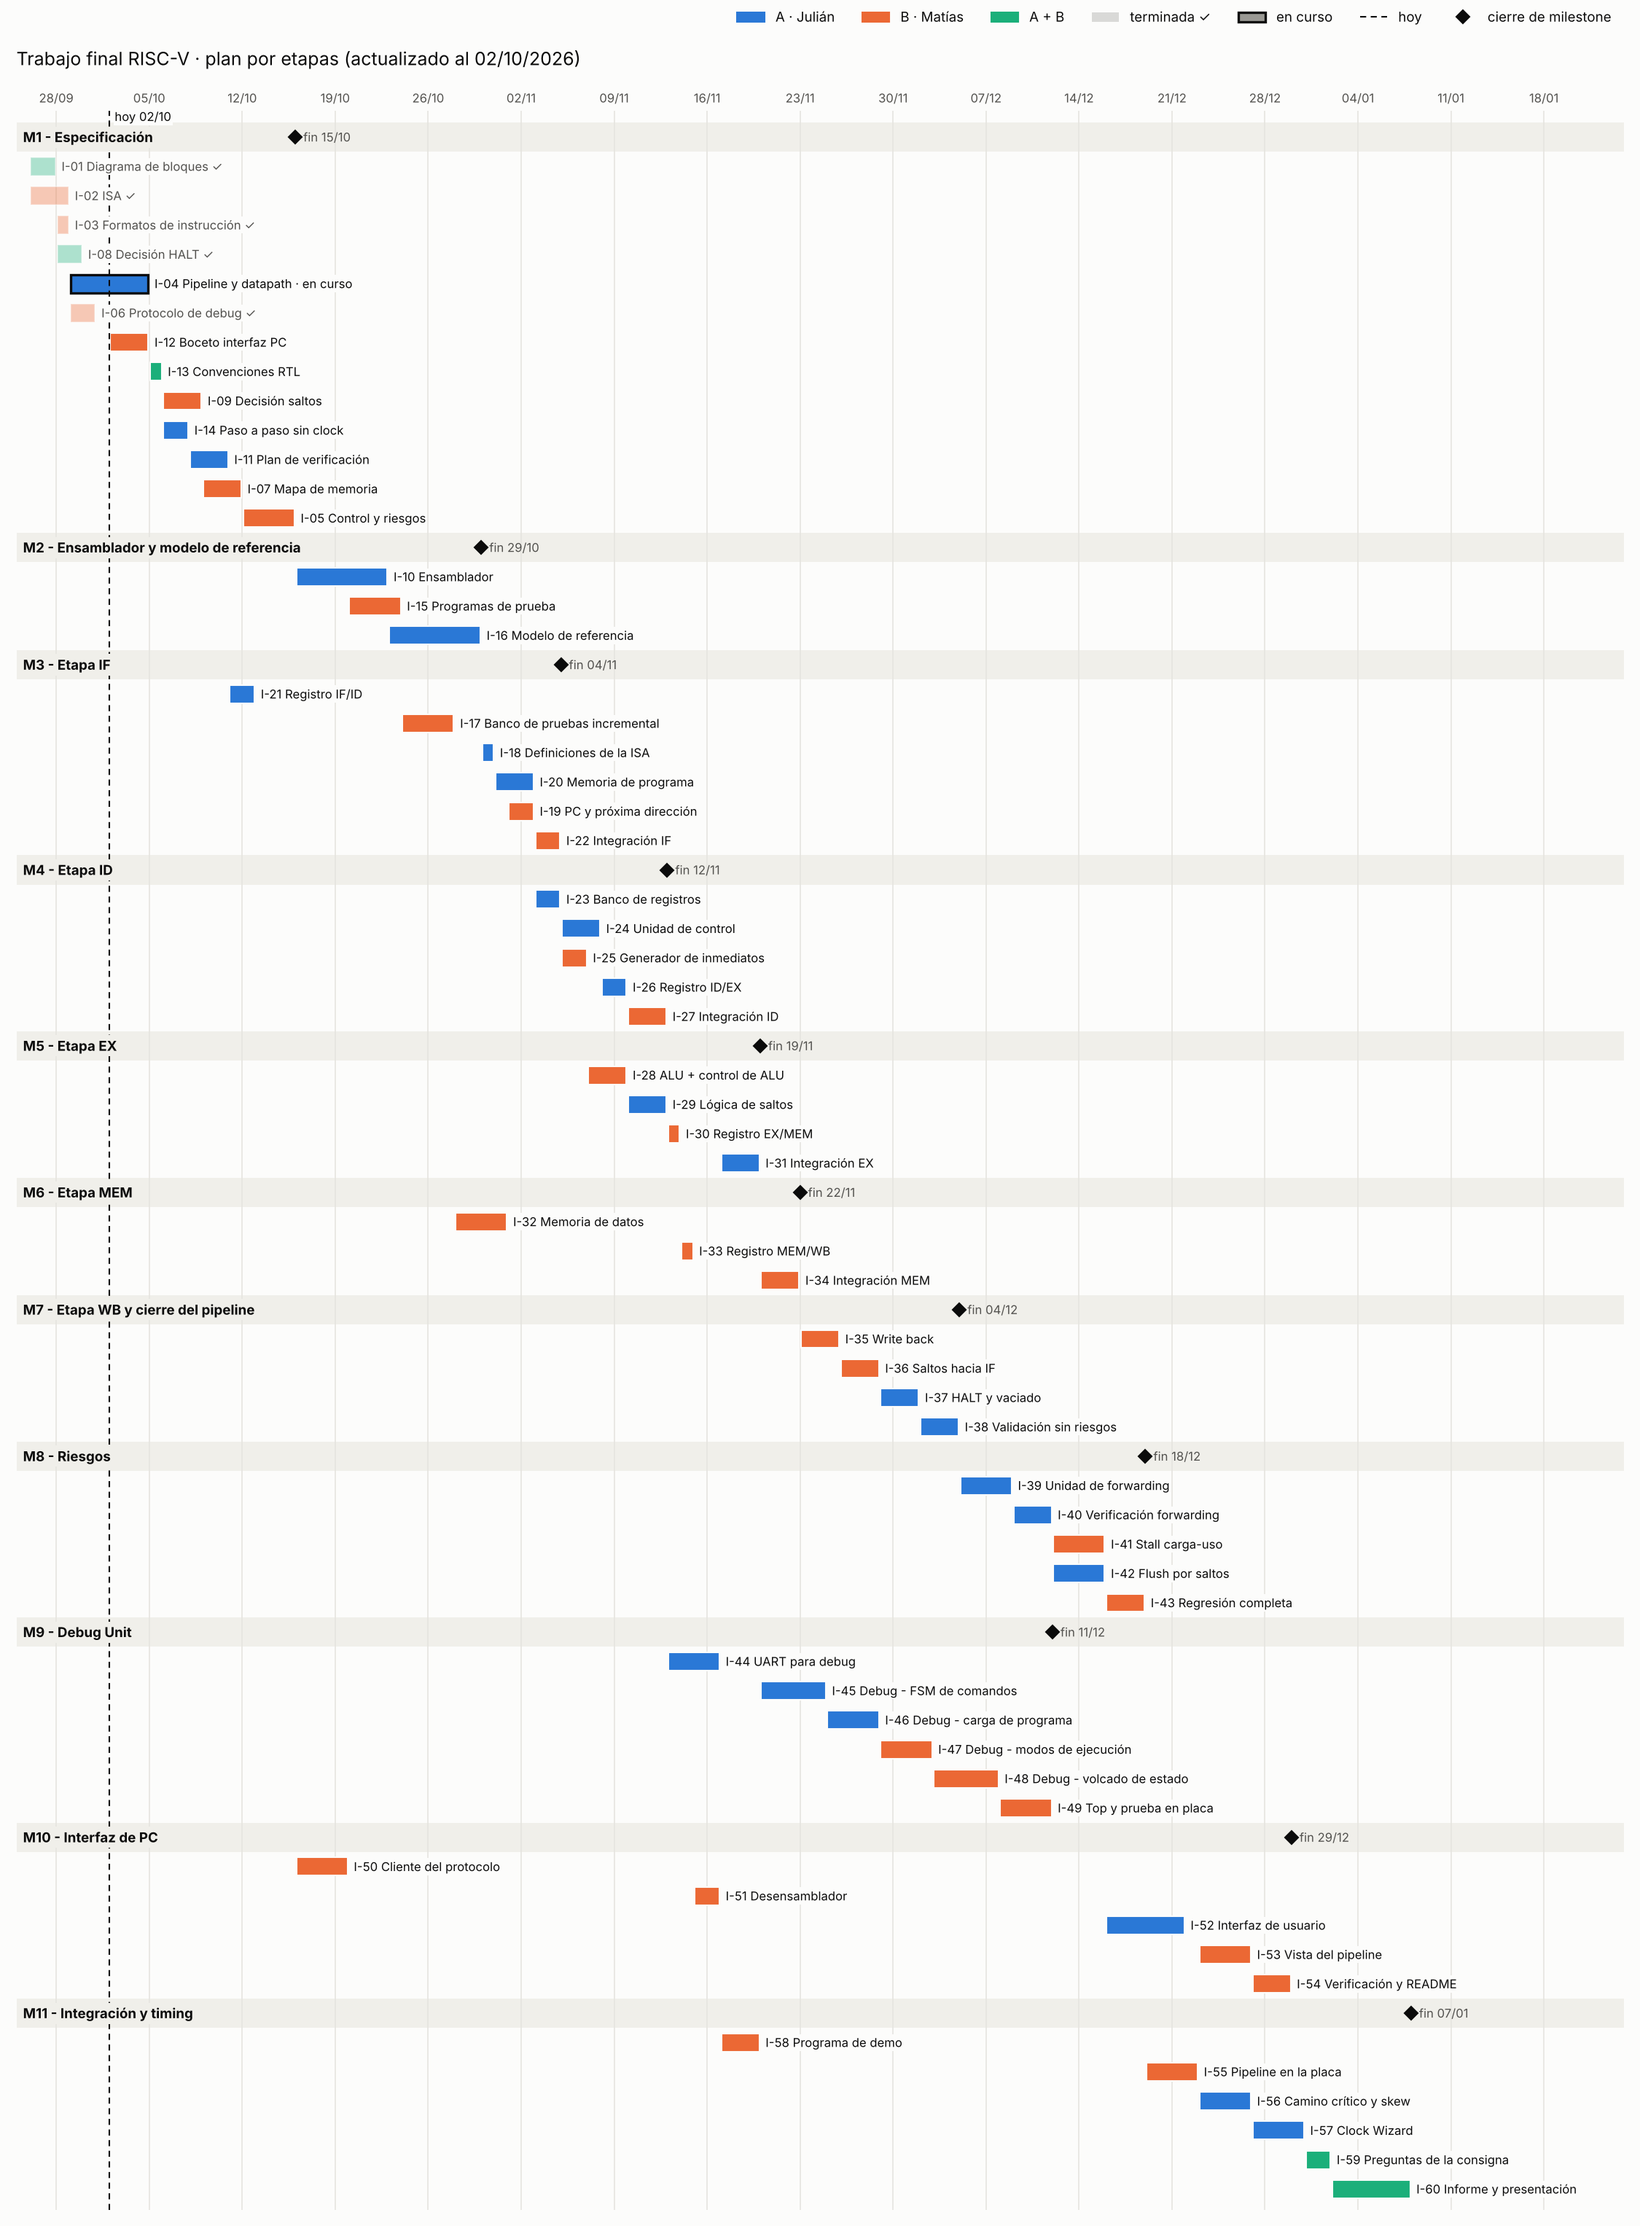
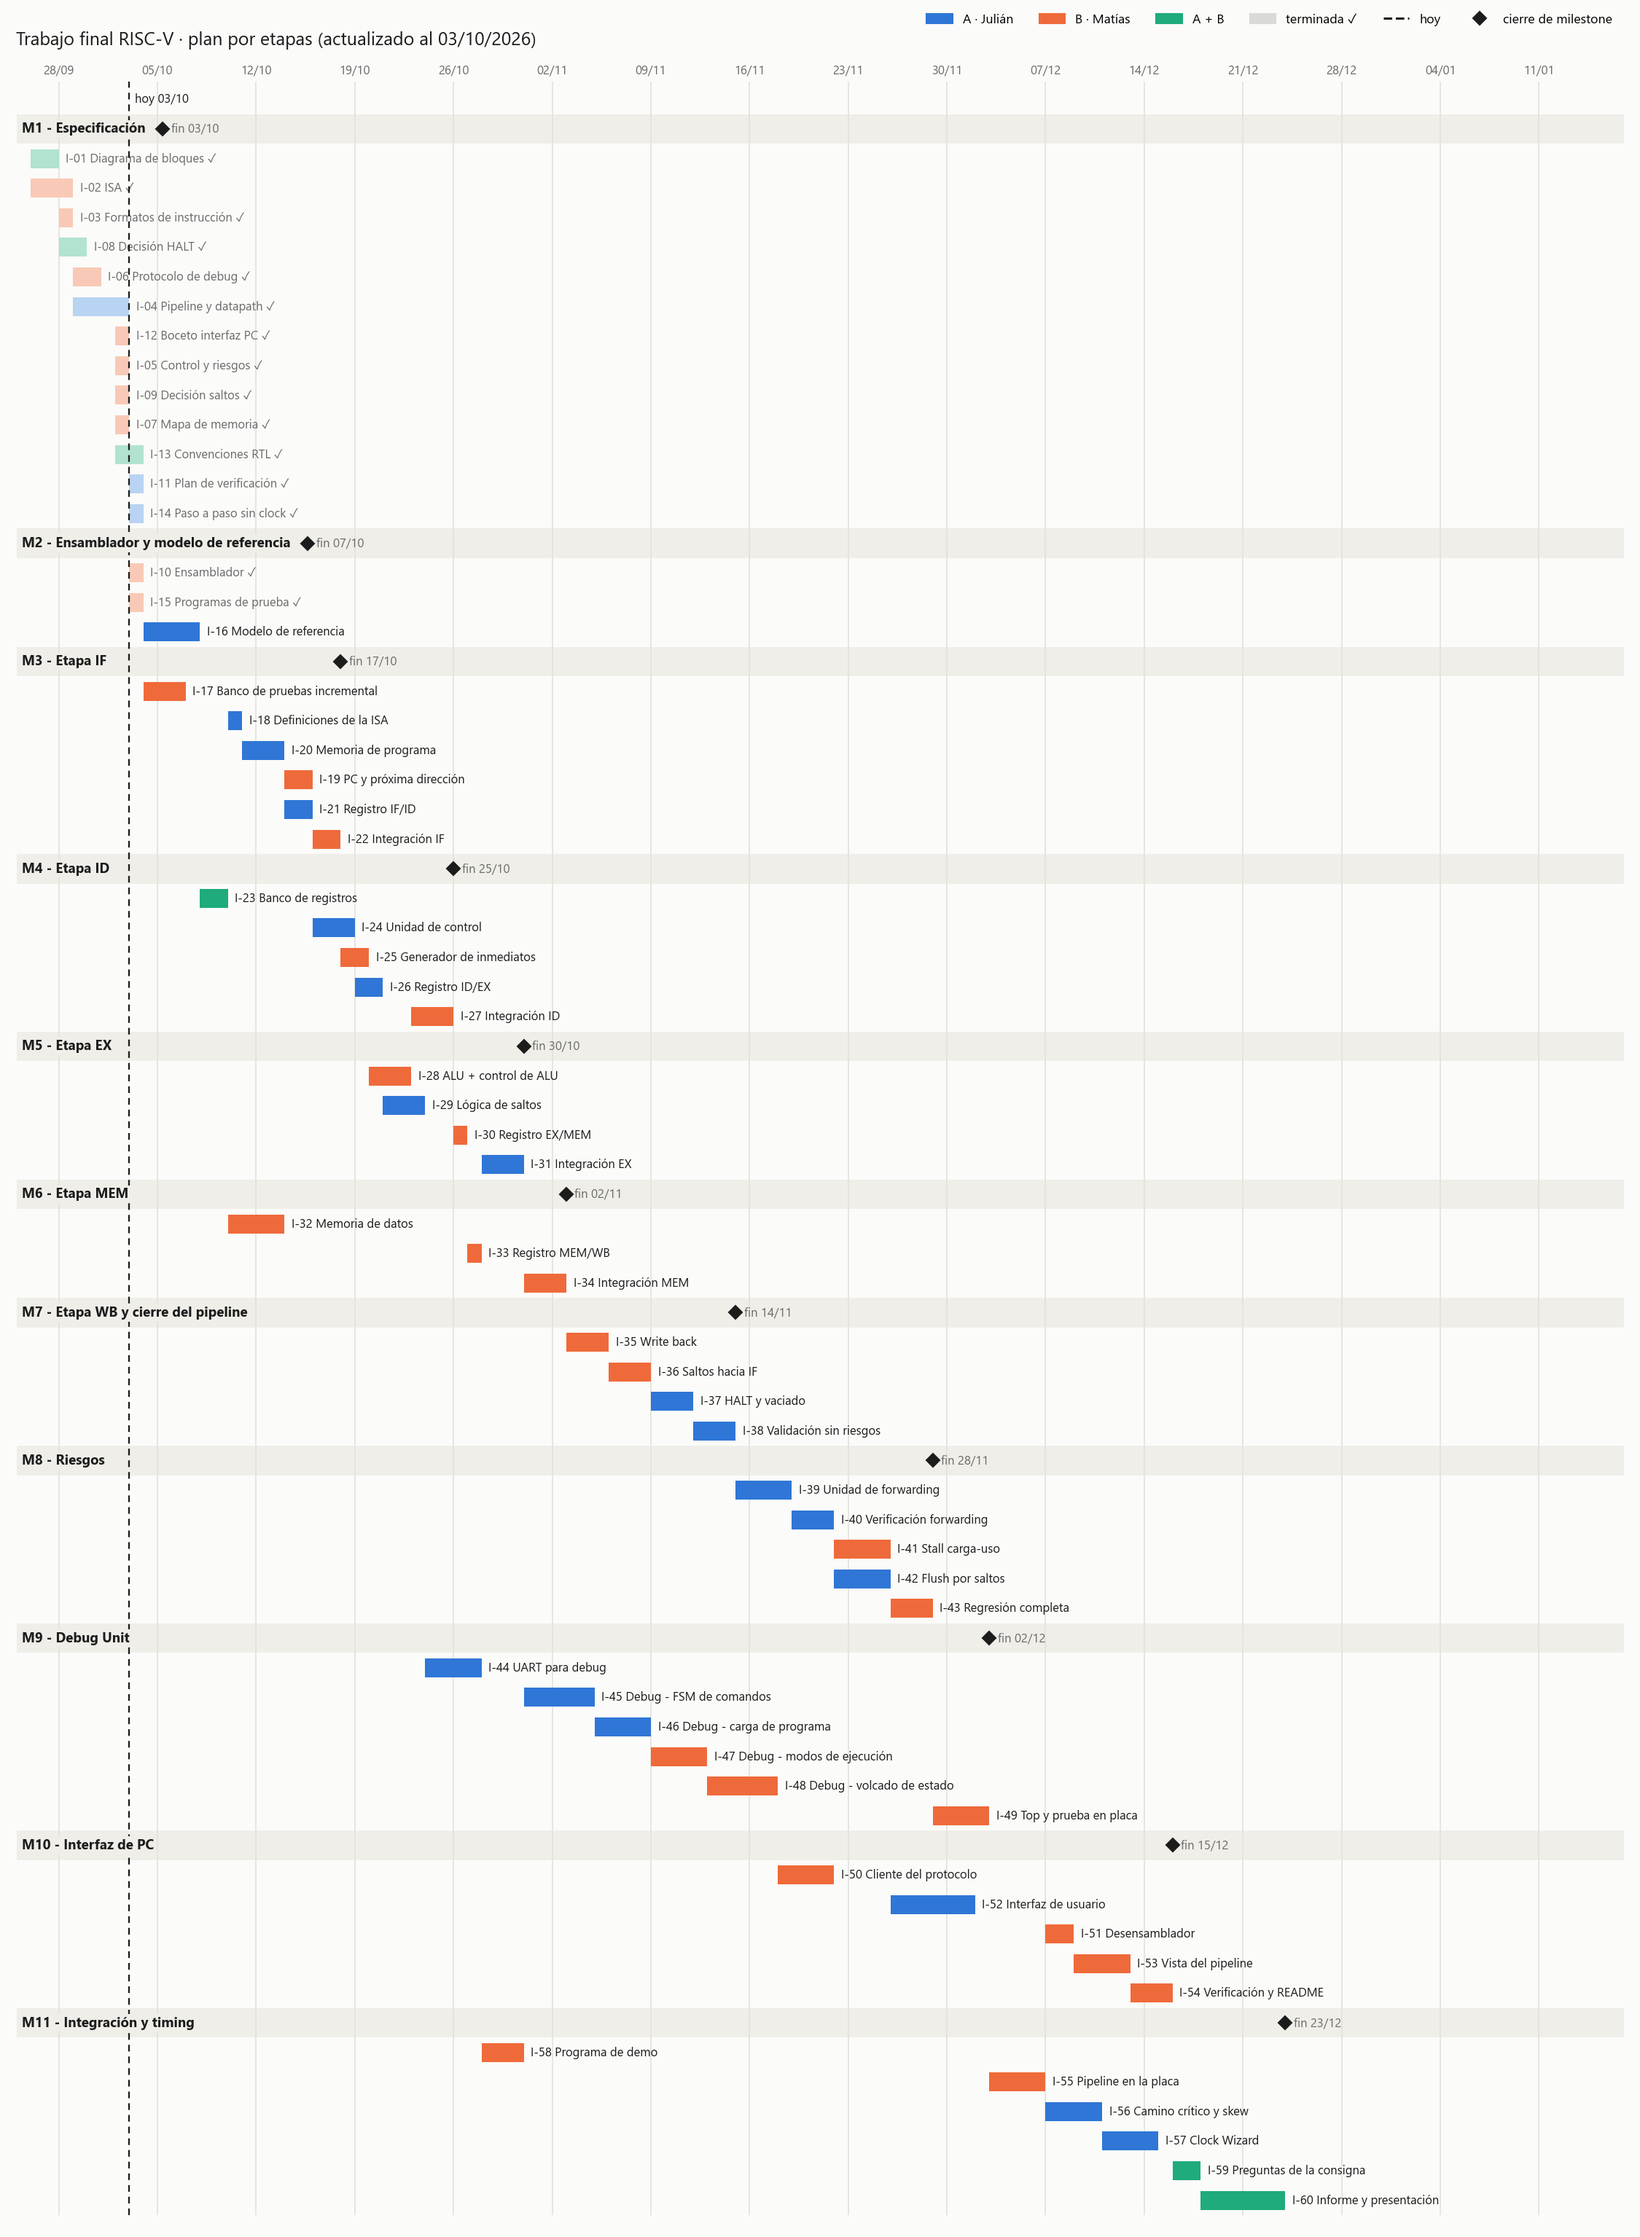
docs(planificacion): reprogramación al 03/10 con el avance de M1 y M2

diff --git a/docs/planificacion.md b/docs/planificacion.md
@@ -22,7 +22,8 @@ cinco etapas funcionando, porque involucran a varias a la vez.
 ## Supuestos de la estimación
 
 - **Inicio real:** 26/09/2026 (primer issue de especificación; la reorganización del
-  repositorio y las plantillas son del 24/09). **Fin estimado:** 07/01/2027.
+  repositorio y las plantillas son del 24/09). **Fin estimado:** 23/12/2026 (antes de la
+  reprogramación del 03/10 era el 07/01/2027).
 - **Personas:** A es Julián Moreyra y B es Matías Costamagna.
 - **Dedicación:** unas 10 a 12 horas por semana por persona. Un "día" del cronograma es un
   día de calendario con esa dedicación (incluye fines de semana), no una jornada completa.
@@ -37,12 +38,18 @@ cinco etapas funcionando, porque involucran a varias a la vez.
 - **Reprogramación al 02/10/2026:** M1 avanzó más rápido de lo estimado, así que las tareas
   pendientes de M1 se reprogramaron desde el 02/10 y **todas las tareas desde M2 en adelante
   se adelantaron 14 días**, sin cambiar su orden ni sus duraciones.
+- **Reprogramación al 03/10/2026:** M1 cerró completo y de M2 solo queda el I-16, con
+  12 días de adelanto sobre el plan anterior. Las tareas pendientes se recalcularon desde
+  el 04/10 respetando el "Depende de" de cada issue, la estimación actual (campo
+  *Estimate* del Project) y la regla de un issue por persona a la vez, con prioridad para
+  el pipeline. No se achicaron las duraciones: la velocidad de M1 (documentos) no se
+  traslada al RTL. Las dos semanas ganadas quedan como **reserva** antes de las fiestas.
 - Frente al plan anterior (monociclo y luego segmentación), este enfoque suma unos 10 días
   por persona: un registro de segmentación por issue, una integración por etapa y la traza
   por etapa en el modelo de referencia. A cambio, cada error queda acotado a la última
   etapa integrada.
 
-## Avance al 02/10/2026
+## Avance al 03/10/2026
 
 | Issue | Responsable | Inicio | Fin real | Estimado | Real | PR |
 |---|---|---|---|---|---|---|
@@ -51,7 +58,19 @@ cinco etapas funcionando, porque involucran a varias a la vez.
 | I-03 Formatos de instrucción | B | 28/09 | 28/09 | 2 días | 1 día | #21 |
 | I-08 Decisión HALT | A + B | 28/09 | 29/09 | 2 días | 2 días | #22 |
 | I-06 Protocolo de debug | B (era de A) | 29/09 | 30/09 | 6 días | 2 días | #23 |
-| I-04 Pipeline y datapath | A | 29/09 | en curso | 6 días | — | sin PR (`docs/7_pipeline`) |
+| I-04 Pipeline y datapath | A | 29/09 | 02/10 | 6 días | 4 días | #24 |
+| I-12 Boceto interfaz PC | B | 02/10 | 02/10 | 3 días | 1 día | #74 |
+| I-05 Control y riesgos | B | 02/10 | 02/10 | 4 días | 1 día | #76 |
+| I-09 Decisión saltos | B | 02/10 | 02/10 | 3 días | 1 día | #77 |
+| I-07 Mapa de memoria | B | 02/10 | 02/10 | 3 días | 1 día | #78 |
+| I-13 Convenciones RTL | A + B | 02/10 | 03/10 | 1 día | 2 días | #75 |
+| I-11 Plan de verificación | A | 03/10 | 03/10 | 3 días | 1 día | #79 |
+| I-14 Paso a paso sin clock | A | 03/10 | 03/10 | 2 días | 1 día | #84 |
+| I-10 Ensamblador | B (era de A) | 03/10 | 03/10 | 7 días | 1 día | #81 |
+| I-15 Programas de prueba | B | 03/10 | 03/10 | 4 días | 1 día | #83 |
+
+M1 cerró el 03/10 (estimado: 15/10). Con el I-10 pasado a B, la carga ya no coincide con
+los totales de arriba: conviene revisar el reparto al cerrar M3.
 
 ## Cómo se reparte el trabajo
 
@@ -92,19 +111,21 @@ las partes del sistema y puedan defender cualquiera:
 
 | Milestone | Fin estimado |
 |---|---|
-| M1 - Especificación | 15/10/2026 |
-| M2 - Ensamblador y modelo de referencia | 29/10/2026 |
-| M3 - Etapa IF | 04/11/2026 |
-| M4 - Etapa ID | 12/11/2026 |
-| M5 - Etapa EX | 19/11/2026 |
-| M6 - Etapa MEM | 22/11/2026 |
-| M7 - Etapa WB y cierre del pipeline | 04/12/2026 |
-| M8 - Riesgos | 18/12/2026 |
-| M9 - Debug Unit | 11/12/2026 |
-| M10 - Interfaz de PC | 29/12/2026 |
-| M11 - Integración y timing | 07/01/2027 |
+| M1 - Especificación | 03/10/2026 (cerrado) |
+| M2 - Ensamblador y modelo de referencia | 07/10/2026 |
+| M3 - Etapa IF | 17/10/2026 |
+| M4 - Etapa ID | 25/10/2026 |
+| M5 - Etapa EX | 30/10/2026 |
+| M6 - Etapa MEM | 02/11/2026 |
+| M7 - Etapa WB y cierre del pipeline | 14/11/2026 |
+| M8 - Riesgos | 28/11/2026 |
+| M9 - Debug Unit | 02/12/2026 |
+| M10 - Interfaz de PC | 15/12/2026 |
+| M11 - Integración y timing | 23/12/2026 |
 
-M9 (Debug Unit) termina antes que M8 (Riesgos) porque lo lleva B en paralelo.
+M9 (Debug Unit) termina después de M8 (Riesgos): sus módulos llenan los huecos que dejan
+las etapas del pipeline, que tienen prioridad, y la prueba en placa (I-49) necesita el cliente
+del protocolo (I-50).
 
 ## Diagrama (Mermaid)
 
@@ -124,82 +145,82 @@ gantt
     I-03 Formatos de instrucción (B) :done, 2026-09-28, 1d
     I-08 Decisión HALT (A + B) :crit, done, 2026-09-28, 2d
     I-06 Protocolo de debug (B) :done, 2026-09-29, 2d
-    I-04 Pipeline y datapath (A) :active, 2026-09-29, 6d
-    I-12 Boceto interfaz PC (B) :2026-10-02, 3d
-    I-13 Convenciones RTL (A + B) :crit, 2026-10-05, 1d
-    I-14 Paso a paso sin clock (A) :2026-10-06, 2d
-    I-09 Decisión saltos (B) :2026-10-06, 3d
-    I-11 Plan de verificación (A) :2026-10-08, 3d
-    I-07 Mapa de memoria (B) :2026-10-09, 3d
-    I-05 Control y riesgos (B) :2026-10-12, 4d
-    M1 cerrado :milestone, 2026-10-16, 0d
+    I-04 Pipeline y datapath (A) :done, 2026-09-29, 4d
+    I-12 Boceto interfaz PC (B) :done, 2026-10-02, 1d
+    I-05 Control y riesgos (B) :done, 2026-10-02, 1d
+    I-09 Decisión saltos (B) :done, 2026-10-02, 1d
+    I-07 Mapa de memoria (B) :done, 2026-10-02, 1d
+    I-13 Convenciones RTL (A + B) :crit, done, 2026-10-02, 2d
+    I-11 Plan de verificación (A) :done, 2026-10-03, 1d
+    I-14 Paso a paso sin clock (A) :done, 2026-10-03, 1d
+    M1 cerrado :milestone, 2026-10-04, 0d
     section M2 Ensamblador y modelo de referencia
-    I-10 Ensamblador (A) :2026-10-16, 7d
-    I-15 Programas de prueba (B) :2026-10-20, 4d
-    I-16 Modelo de referencia (A) :2026-10-23, 7d
-    M2 cerrado :milestone, 2026-10-30, 0d
+    I-10 Ensamblador (B) :done, 2026-10-03, 1d
+    I-15 Programas de prueba (B) :done, 2026-10-03, 1d
+    I-16 Modelo de referencia (A) :2026-10-04, 4d
+    M2 cerrado :milestone, 2026-10-08, 0d
     section M3 Etapa IF
-    I-21 Registro IF/ID (A) :2026-10-11, 2d
-    I-17 Banco de pruebas incremental (B) :2026-10-24, 4d
-    I-18 Definiciones de la ISA (A) :2026-10-30, 1d
-    I-20 Memoria de programa (A) :2026-10-31, 3d
-    I-19 PC y próxima dirección (B) :2026-11-01, 2d
-    I-22 Integración IF (B) :2026-11-03, 2d
-    M3 cerrado :milestone, 2026-11-05, 0d
+    I-17 Banco de pruebas incremental (B) :2026-10-04, 3d
+    I-18 Definiciones de la ISA (A) :2026-10-10, 1d
+    I-20 Memoria de programa (A) :2026-10-11, 3d
+    I-19 PC y próxima dirección (B) :2026-10-14, 2d
+    I-21 Registro IF/ID (A) :2026-10-14, 2d
+    I-22 Integración IF (B) :2026-10-16, 2d
+    M3 cerrado :milestone, 2026-10-18, 0d
     section M4 Etapa ID
-    I-23 Banco de registros (A) :2026-11-03, 2d
-    I-24 Unidad de control (A) :2026-11-05, 3d
-    I-25 Generador de inmediatos (B) :2026-11-05, 2d
-    I-26 Registro ID/EX (A) :2026-11-08, 2d
-    I-27 Integración ID (B) :2026-11-10, 3d
-    M4 cerrado :milestone, 2026-11-13, 0d
+    I-23 Banco de registros (A + B) :crit, 2026-10-08, 2d
+    I-24 Unidad de control (A) :2026-10-16, 3d
+    I-25 Generador de inmediatos (B) :2026-10-18, 2d
+    I-26 Registro ID/EX (A) :2026-10-19, 2d
+    I-27 Integración ID (B) :2026-10-23, 3d
+    M4 cerrado :milestone, 2026-10-26, 0d
     section M5 Etapa EX
-    I-28 ALU + control de ALU (B) :2026-11-07, 3d
-    I-29 Lógica de saltos (A) :2026-11-10, 3d
-    I-30 Registro EX/MEM (B) :2026-11-13, 1d
-    I-31 Integración EX (A) :2026-11-17, 3d
-    M5 cerrado :milestone, 2026-11-20, 0d
+    I-28 ALU + control de ALU (B) :2026-10-20, 3d
+    I-29 Lógica de saltos (A) :2026-10-21, 3d
+    I-30 Registro EX/MEM (B) :2026-10-26, 1d
+    I-31 Integración EX (A) :2026-10-28, 3d
+    M5 cerrado :milestone, 2026-10-31, 0d
     section M6 Etapa MEM
-    I-32 Memoria de datos (B) :2026-10-28, 4d
-    I-33 Registro MEM/WB (B) :2026-11-14, 1d
-    I-34 Integración MEM (B) :2026-11-20, 3d
-    M6 cerrado :milestone, 2026-11-23, 0d
+    I-32 Memoria de datos (B) :2026-10-10, 4d
+    I-33 Registro MEM/WB (B) :2026-10-27, 1d
+    I-34 Integración MEM (B) :2026-10-31, 3d
+    M6 cerrado :milestone, 2026-11-03, 0d
     section M7 Etapa WB y cierre del pipeline
-    I-35 Write back (B) :2026-11-23, 3d
-    I-36 Saltos hacia IF (B) :2026-11-26, 3d
-    I-37 HALT y vaciado (A) :2026-11-29, 3d
-    I-38 Validación sin riesgos (A) :2026-12-02, 3d
-    M7 cerrado :milestone, 2026-12-05, 0d
+    I-35 Write back (B) :2026-11-03, 3d
+    I-36 Saltos hacia IF (B) :2026-11-06, 3d
+    I-37 HALT y vaciado (A) :2026-11-09, 3d
+    I-38 Validación sin riesgos (A) :2026-11-12, 3d
+    M7 cerrado :milestone, 2026-11-15, 0d
     section M8 Riesgos
-    I-39 Unidad de forwarding (A) :2026-12-05, 4d
-    I-40 Verificación forwarding (A) :2026-12-09, 3d
-    I-41 Stall carga-uso (B) :2026-12-12, 4d
-    I-42 Flush por saltos (A) :2026-12-12, 4d
-    I-43 Regresión completa (B) :2026-12-16, 3d
-    M8 cerrado :milestone, 2026-12-19, 0d
+    I-39 Unidad de forwarding (A) :2026-11-15, 4d
+    I-40 Verificación forwarding (A) :2026-11-19, 3d
+    I-41 Stall carga-uso (B) :2026-11-22, 4d
+    I-42 Flush por saltos (A) :2026-11-22, 4d
+    I-43 Regresión completa (B) :2026-11-26, 3d
+    M8 cerrado :milestone, 2026-11-29, 0d
     section M9 Debug Unit
-    I-44 UART para debug (A) :2026-11-13, 4d
-    I-45 Debug - FSM de comandos (A) :2026-11-20, 5d
-    I-46 Debug - carga de programa (A) :2026-11-25, 4d
-    I-47 Debug - modos de ejecución (B) :2026-11-29, 4d
-    I-48 Debug - volcado de estado (B) :2026-12-03, 5d
-    I-49 Top y prueba en placa (B) :2026-12-08, 4d
-    M9 cerrado :milestone, 2026-12-12, 0d
+    I-44 UART para debug (A) :2026-10-24, 4d
+    I-45 Debug - FSM de comandos (A) :2026-10-31, 5d
+    I-46 Debug - carga de programa (A) :2026-11-05, 4d
+    I-47 Debug - modos de ejecución (B) :2026-11-09, 4d
+    I-48 Debug - volcado de estado (B) :2026-11-13, 5d
+    I-49 Top y prueba en placa (B) :2026-11-29, 4d
+    M9 cerrado :milestone, 2026-12-03, 0d
     section M10 Interfaz de PC
-    I-50 Cliente del protocolo (B) :2026-10-16, 4d
-    I-51 Desensamblador (B) :2026-11-15, 2d
-    I-52 Interfaz de usuario (A) :2026-12-16, 6d
-    I-53 Vista del pipeline (B) :2026-12-23, 4d
-    I-54 Verificación y README (B) :2026-12-27, 3d
-    M10 cerrado :milestone, 2026-12-30, 0d
+    I-50 Cliente del protocolo (B) :2026-11-18, 4d
+    I-52 Interfaz de usuario (A) :2026-11-26, 6d
+    I-51 Desensamblador (B) :2026-12-07, 2d
+    I-53 Vista del pipeline (B) :2026-12-09, 4d
+    I-54 Verificación y README (B) :2026-12-13, 3d
+    M10 cerrado :milestone, 2026-12-16, 0d
     section M11 Integración y timing
-    I-58 Programa de demo (B) :2026-11-17, 3d
-    I-55 Pipeline en la placa (B) :2026-12-19, 4d
-    I-56 Camino crítico y skew (A) :2026-12-23, 4d
-    I-57 Clock Wizard (A) :2026-12-27, 4d
-    I-59 Preguntas de la consigna (A + B) :crit, 2026-12-31, 2d
-    I-60 Informe y presentación (A + B) :crit, 2027-01-02, 6d
-    M11 cerrado :milestone, 2027-01-08, 0d
+    I-58 Programa de demo (B) :2026-10-28, 3d
+    I-55 Pipeline en la placa (B) :2026-12-03, 4d
+    I-56 Camino crítico y skew (A) :2026-12-07, 4d
+    I-57 Clock Wizard (A) :2026-12-11, 4d
+    I-59 Preguntas de la consigna (A + B) :crit, 2026-12-16, 2d
+    I-60 Informe y presentación (A + B) :crit, 2026-12-18, 6d
+    M11 cerrado :milestone, 2026-12-24, 0d
 ```
 
 ## Cómo mantenerlo
